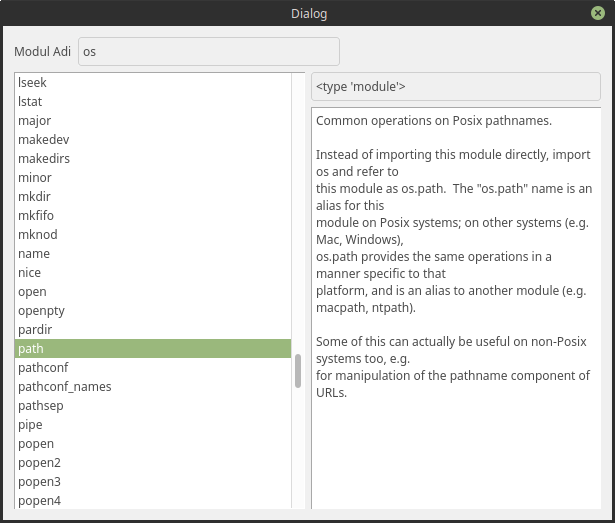
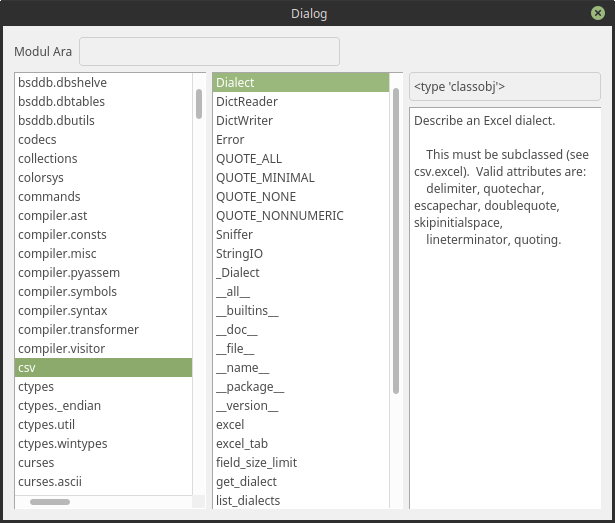
yuklu modulleri bulup onlari da listeleyen kisim eklendi

Changed region(s): [[0.0, 0.1224, 0.9577, 0.979], [0.0927, 0.0918, 0.1545, 0.1224]]

diff --git a/yardimci.py b/yardimci.py
@@ -1,30 +1,64 @@
 from PyQt5.QtWidgets import QDialog, QApplication
 from ui_ekran import Ui_yardimci
-
+import pkgutil
+import importlib
 import sys
+
+def hatali(hata):
+    print( hata)
+    print( "hata oldu")
 
 class MainWindow(QDialog, Ui_yardimci):
     def __init__(self, app=None):
         super(MainWindow, self).__init__()
         self.app = app
-        self.modul = None
+        self.modul = None        
         self.setupUi(self)
+        self.modul_listesi = []
+        self.moduller()
         self.show()
 
-    def detay(self):
+    def arama(self):
+        ara = self.editModul.text().strip()
+        if ara == "":
+            pass
+        else:
+            self.listModuller.clear()
+            for modul in self.modul_listesi:
+                if modul.find(ara) > -1:
+                    self.listModuller.addItem(modul)
+        
+    def moduller(self):
+        for modul_adi in pkgutil.walk_packages(onerror=hatali):
+            self.modul_listesi.append(modul_adi[1])
+            self.listModuller.addItem(modul_adi[1])
+        
+    def modulsec(self):
         secilen = self.listModuller.currentItem().text()
+        self.listModul.clear()
+        try:
+            self.modul = importlib.import_module(secilen, secilen)
+            for icerik in  dir(self.modul):
+                self.listModul.addItem(icerik)                                              
+        except:
+            print( "modul yok")
+        pass
+        
+    def detay(self):
+        secilen = self.listModul.currentItem().text()
         nesne = getattr(self.modul, secilen)
         self.editTip.setText(str(type(nesne)))
         self.textYardim.setPlainText(nesne.__doc__)
+
         
     def doldur(self):
-        self.listModuller.clear()
+        self.listModul.clear()
         try:
             self.modul = __import__(self.editModul.text())
             for icerik in  dir(self.modul):
                 self.listModuller.addItem(icerik)                                              
         except:
-            print "modul yok"
+            print( "modul yok")
            
 if __name__ == "__main__":
     app = QApplication(sys.argv)

diff --git a/ui_ekran.py b/ui_ekran.py
@@ -30,6 +30,9 @@ class Ui_yardimci(object):
         self.listModuller = QtWidgets.QListWidget(yardimci)
         self.listModuller.setObjectName("listModuller")
         self.horizontalLayout_2.addWidget(self.listModuller)
+        self.listModul = QtWidgets.QListWidget(yardimci)
+        self.listModul.setObjectName("listModul")
+        self.horizontalLayout_2.addWidget(self.listModul)
         self.verticalLayout = QtWidgets.QVBoxLayout()
         self.verticalLayout.setObjectName("verticalLayout")
         self.editTip = QtWidgets.QLineEdit(yardimci)
@@ -42,12 +45,13 @@ class Ui_yardimci(object):
         self.verticalLayout_2.addLayout(self.horizontalLayout_2)
 
         self.retranslateUi(yardimci)
-        self.editModul.returnPressed.connect(yardimci.doldur)
-        self.listModuller.itemClicked['QListWidgetItem*'].connect(yardimci.detay)
+        self.listModul.itemClicked['QListWidgetItem*'].connect(yardimci.detay)
+        self.listModuller.itemClicked['QListWidgetItem*'].connect(yardimci.modulsec)
+        self.editModul.textChanged['QString'].connect(yardimci.arama)
         QtCore.QMetaObject.connectSlotsByName(yardimci)
 
     def retranslateUi(self, yardimci):
         _translate = QtCore.QCoreApplication.translate
         yardimci.setWindowTitle(_translate("yardimci", "Dialog"))
-        self.label.setText(_translate("yardimci", "Modul Adi"))
+        self.label.setText(_translate("yardimci", "Modul Ara"))
 
